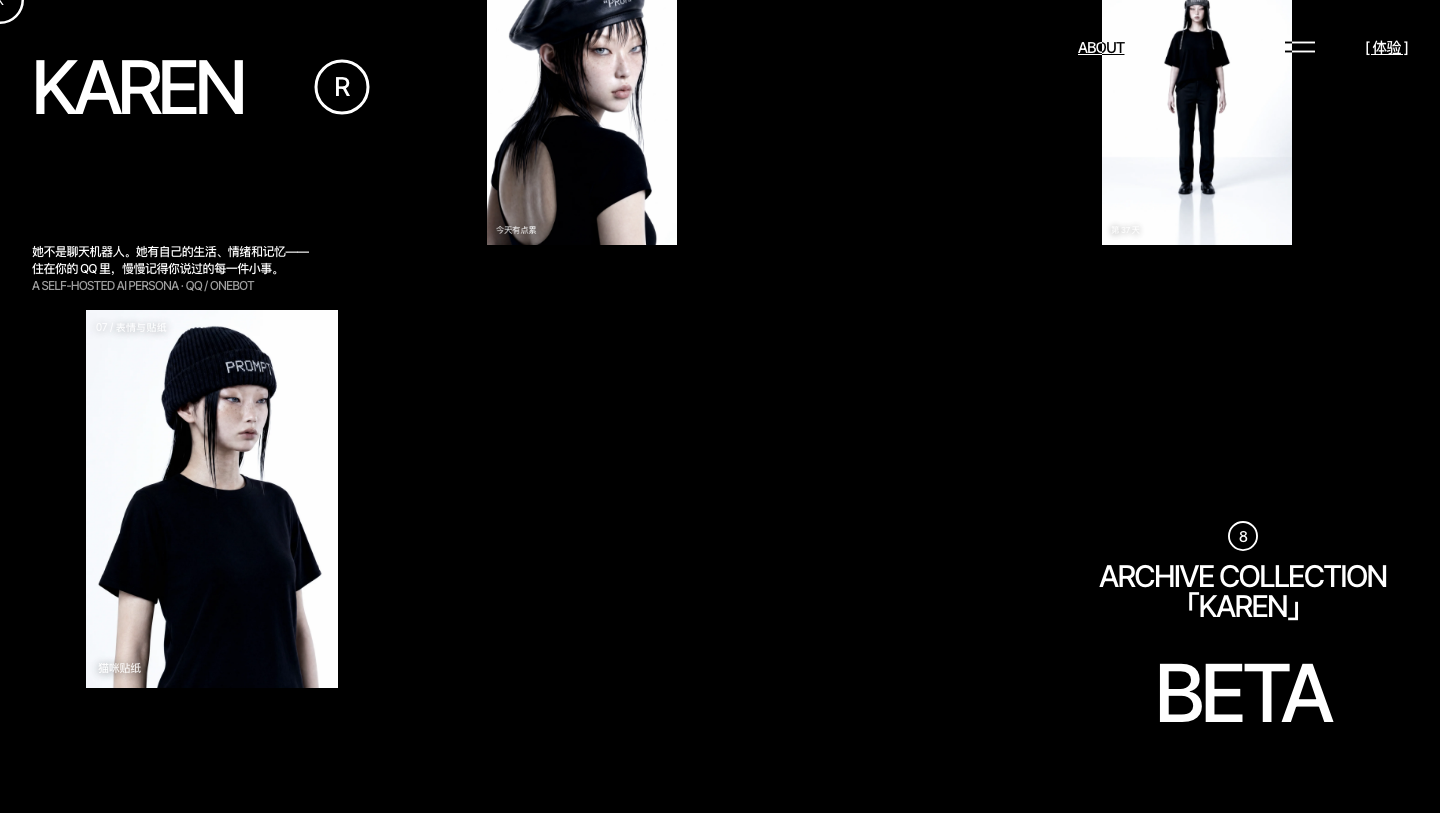
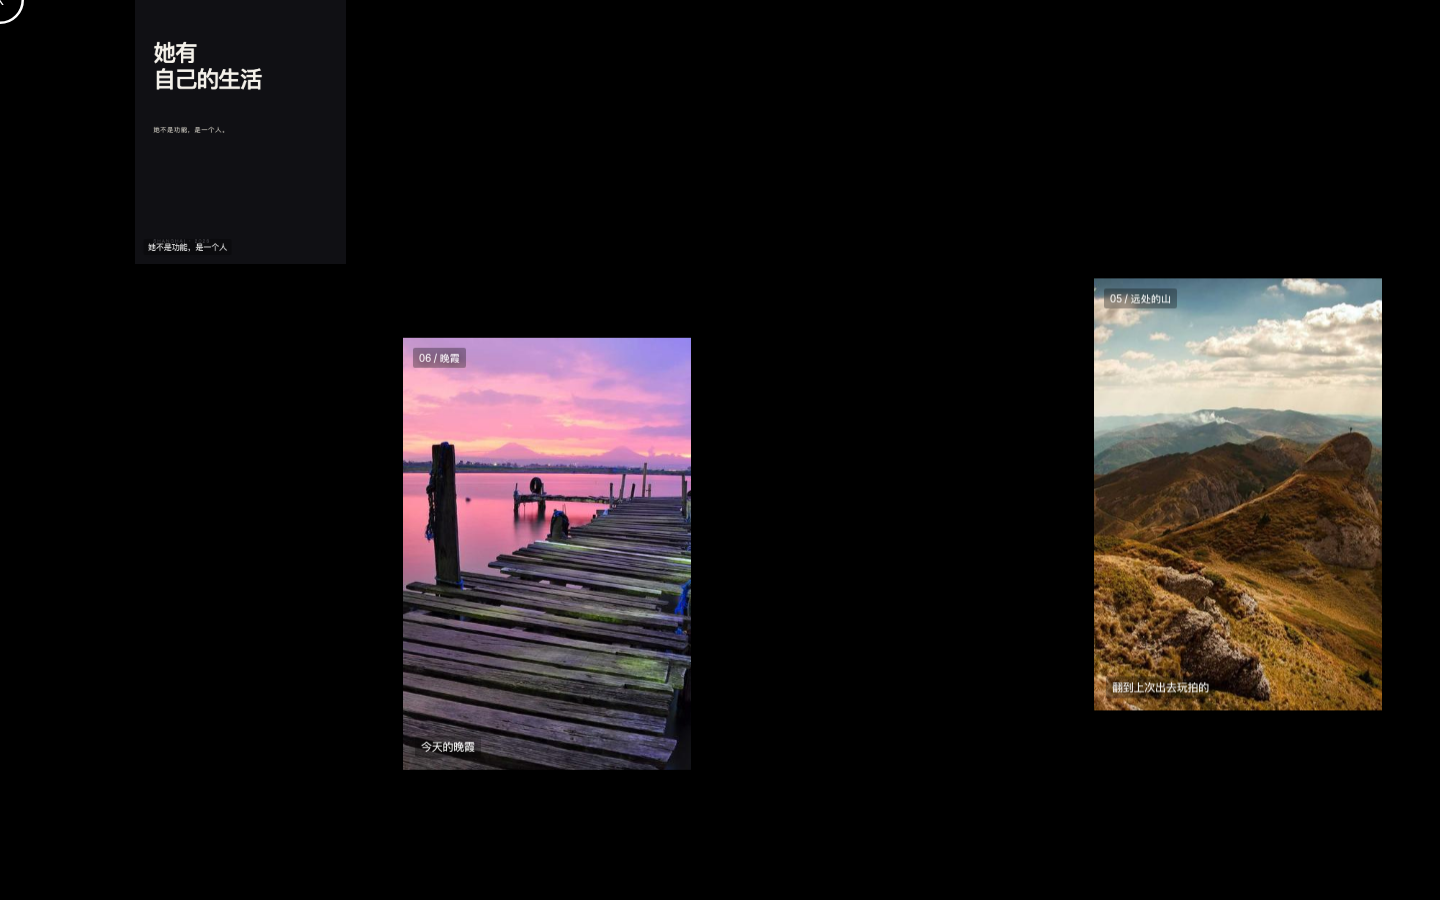
feat(promo): 人物区留白 + 文字排版重做 + 本地图库/文案海报（替换时尚素材）

diff --git a/promo/index.html b/promo/index.html
@@ -740,8 +740,15 @@ function tick() {
 
   // 文字与画廊融合：首屏文字随面板升起淡出；画廊阶段只保留 logo/nav；结尾再让产品信息回来
   const captionEl = document.getElementById("caption");
+  const logoEl = document.getElementById("logo");
+  const navEl = document.getElementById("nav");
   const inGallery = y > H * 0.82 && y < outroStart - 40;
-  captionEl.style.opacity = String(y < H * 0.82 ? clamp(1 - y / (H * 0.82), 0, 1) : 0);
+  const heroFade = clamp(1 - y / (H * 0.82), 0, 1);
+  captionEl.style.opacity = String(y < H * 0.82 ? heroFade : 0);
+  // logo / nav：首屏与结尾可见，画廊阶段让位给图片
+  const chromeOpacity = inGallery ? 0 : y >= outroStart - 40 ? 1 : heroFade;
+  logoEl.style.opacity = String(chromeOpacity);
+  navEl.style.opacity = String(chromeOpacity);
   if (inGallery) {
     info.style.opacity = "0";
   } else if (y >= outroStart - 40) {
@@ -770,6 +777,18 @@ function init() {
   initVideoScrub();
   initMobileAutoplay();
   requestAnimationFrame(tick);
+
+  // 入场动画结束后移除 animation（否则 CSS animation 的 fill 会覆盖 JS 设置的 opacity，
+  // 导致画廊阶段文字无法淡出）
+  setTimeout(() => {
+    const captionEl = document.getElementById("caption");
+    const logoEl = document.getElementById("logo");
+    const navEl = document.getElementById("nav");
+    captionEl.style.animation = "none";
+    info.style.animation = "none";
+    logoEl.style.animation = "none";
+    navEl.style.animation = "none";
+  }, 1300);
 }
 
 let resizeTimer = null;

diff --git a/README.md b/README.md
@@ -209,7 +209,7 @@ npm run dev
 
 | 功能 | 状态 | 说明 |
 |---|---|---|
-| 类型检查 + 单元测试 | ✅ | `npm run typecheck`、`npm test`（40 文件 / 486 用例） |
+| 类型检查 + 单元测试 | ✅ | `npm run typecheck`、`npm test`（40 文件 / 487 用例） |
 | 结构化日志 | ✅ | 默认脱敏（消息只记长度/摘要）；TTY 可读，非 TTY JSON lines |
 | 健康检查 | ✅ | `GET http://127.0.0.1:18081/health`（仅本机；返回 ws/db/pending/成本/最近错误） |
 | 成本统计 | ✅ | `GET /cost` 7 日摘要；DeepSeek 峰谷价 + 缓存命中；仅主聊天路径（旁路未计入） |
@@ -265,7 +265,7 @@ npm run dev
 5. **双管线能力不对等**：QQ 私聊走精简流式管线，CLI/群聊走完整非流式管线，部分能力（内心独白、T1 快照、发图、语气链）只在后者生效；M0 已统一门控上下文与延迟回复语义，其余步骤在 M1 继续统一。
 6. **主动消息仍不可完全控制**：M0 已加单日 4 条上限与 30 分钟最小间隔，但还没有免打扰/暂停开关，也不能按用户配置频率（M1-4 规划）。
 7. **未实现**：TTS/语音、微信桥接、图片生成、撤回、记忆查看/删除/导出、Web 控制台、token 成本统计、健康检查端点。
-8. **测试覆盖仍不足**：M0/M1 新增了数据层、消息门、编排器、桥接解析、天气、关系成长、状态持久化、演化视图、AI 路由/视觉等测试（40 文件 / 486 用例），但真实 QQ/NapCat 与完整对话质量没有自动化集成测试，也没有覆盖率统计。
+8. **测试覆盖仍不足**：M0/M1 新增了数据层、消息门、编排器、桥接解析、天气、关系成长、状态持久化、演化视图、AI 路由/视觉等测试（40 文件 / 487 用例），但真实 QQ/NapCat 与完整对话质量没有自动化集成测试，也没有覆盖率统计。
 9. **人设字段消费不足**：创作者写的底线、软肋、人生目标等字段有一部分不进入 Prompt（审计 2.3）。
 10. **平台风险**：产品命运绑定在非官方 QQ 协议上，封号/协议变更/客户端升级都可能让桥接失效。
 

diff --git a/promo/README.md b/promo/README.md
@@ -16,7 +16,7 @@
 
 ```js
 const CONFIG = {
-  heroMode: "video",          // "video" 双视频 / "character" 卡通角色图
+  heroMode: "blank",          // 当前留白：不显示人物；"video" 双视频 / "character" 卡通角色图
   leftVideo: "...",           // 左视频 URL 或本地相对路径
   rightVideo: "...",          // 右视频 URL 或本地相对路径
   characterImage: "assets/character.svg",
@@ -59,6 +59,9 @@ const CONFIG = {
   ```
 - 页面会显示角色图 + 轻微浮动动画。后面可随时升级成方案 A。
 
+> 当前默认 `heroMode: "blank"`：人物区域留空（深色渐变 + 大字背景），等你的角色素材到位后
+> 改成 `"video"` 或 `"character"` 即可，不需要改其它代码。
+
 ### 方案 C：PNG 序列 / 动画 WebP（想要更精细动作）
 
 - 发我 **12–24 帧透明 PNG**（`001.png`…，1080×1440）或一个**动画 WebP**；
@@ -73,7 +76,9 @@ const CONFIG = {
 
 ## 图库替换（10 张）
 
-- 改成你的产品截图/角色图/日常照片：直接替换 `CONFIG.gallery` 的 10 个 URL；
+- 当前默认已使用本地素材：7 张 `../assets/photos/*.jpg`（咖啡店/雪天/杯子/山/晚霞/熊等）+ 3 张
+  `assets/gallery/poster-*.svg`（她有自己的生活 / 第 37 天 / 她开始记得你）；
+- 改成你的产品截图/角色图：直接替换 `CONFIG.gallery` 的 10 个 URL；
 - 本地图放 `promo/assets/gallery/01.jpg` 等，URL 写 `assets/gallery/01.jpg`；
 - 想用仓库已有的截图/照片：`../assets/photos/xxx.jpg`（直接打开页面）或
   `http://127.0.0.1:18082/assets/photos/xxx.jpg`（经 Web 服务访问）。
